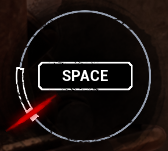
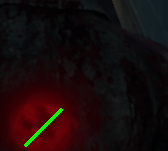
changed rectange dectection to find smaller boxes due to resolution changes

diff --git a/dbd/screen/tracking.py b/dbd/screen/tracking.py
@@ -9,6 +9,8 @@ pyautogui.PAUSE = 1
 pyautogui.FAILSAFE = True
 import ctypes
 
+
+
 VK_SPACE = 0x20
 KEYEVENTF_EXTENDEDKEY = 0x0001
 KEYEVENTF_KEYUP       = 0x0002
@@ -27,12 +29,14 @@ def track_objects(PERCENTAGE, DISTANCE_THRESHOLD=10, ANGLE_THRESHOLD=np.pi/6, LE
         merged_lines = merge_lines(lines, DISTANCE_THRESHOLD, ANGLE_THRESHOLD, LENGTH_THRESHOLD)
         for line in merged_lines:
             x1, y1, x2, y2 = line
+            cv2.line(screenshot_cv, (int(x1), int(y1)), (int(x2), int(y2)), (0, 255, 0), 2)
 
         #print(f"Detected {len(boxes)} white boxes.") 
         # Draw bounding box around each detected box
         for box in boxes:
             x, y, w, h = box
             box_points = np.array([(x, y), (x, y+h), (x+w, y+h), (x+w, y)])
+            screenshot_cv = cv2.rectangle(screenshot_cv, (x, y), (x+w, y+h), (0,255,255), 2)  # BGR for Yellow is (0, 255, 255)
             
             if line is not None and overlap(line, box_points):
                 press_space()

diff --git a/dbd/screen/rectange_detect.py b/dbd/screen/rectange_detect.py
@@ -43,8 +43,8 @@ def detect_white_box(screenshot_cv):
         # Calculate area and remove small elements
         area = cv2.contourArea(contour)
 
-        min_area_threshold = 50  # minimum threshold for area
-        max_area_threshold = 100  # maximum threshold for area
+        min_area_threshold = 10  # minimum threshold for area
+        max_area_threshold = 70  # maximum threshold for area
     
         if min_area_threshold < area < max_area_threshold:
             # Find bounding box coordinates
